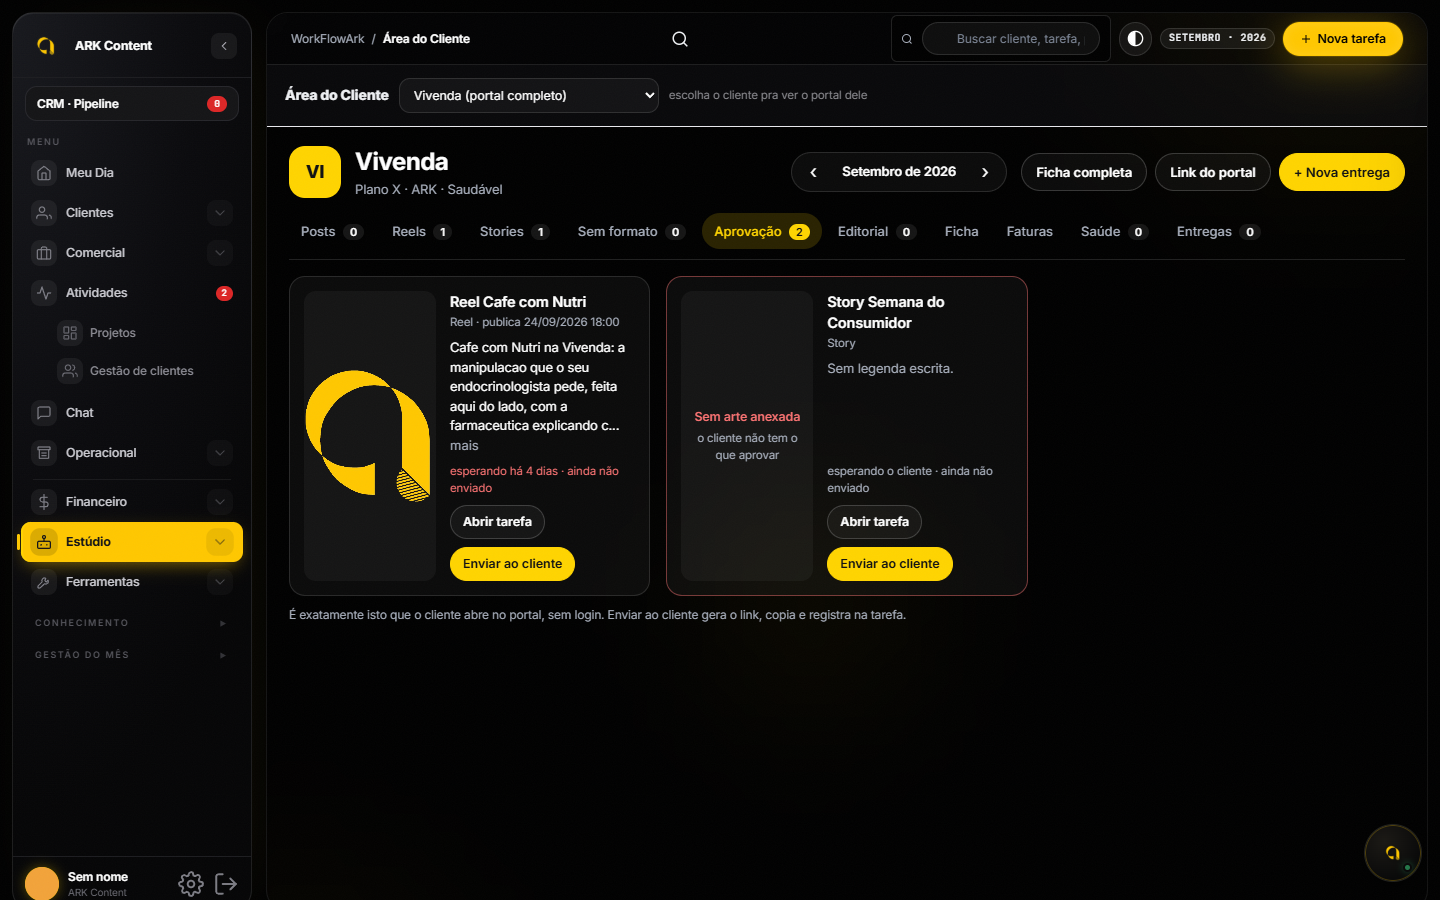
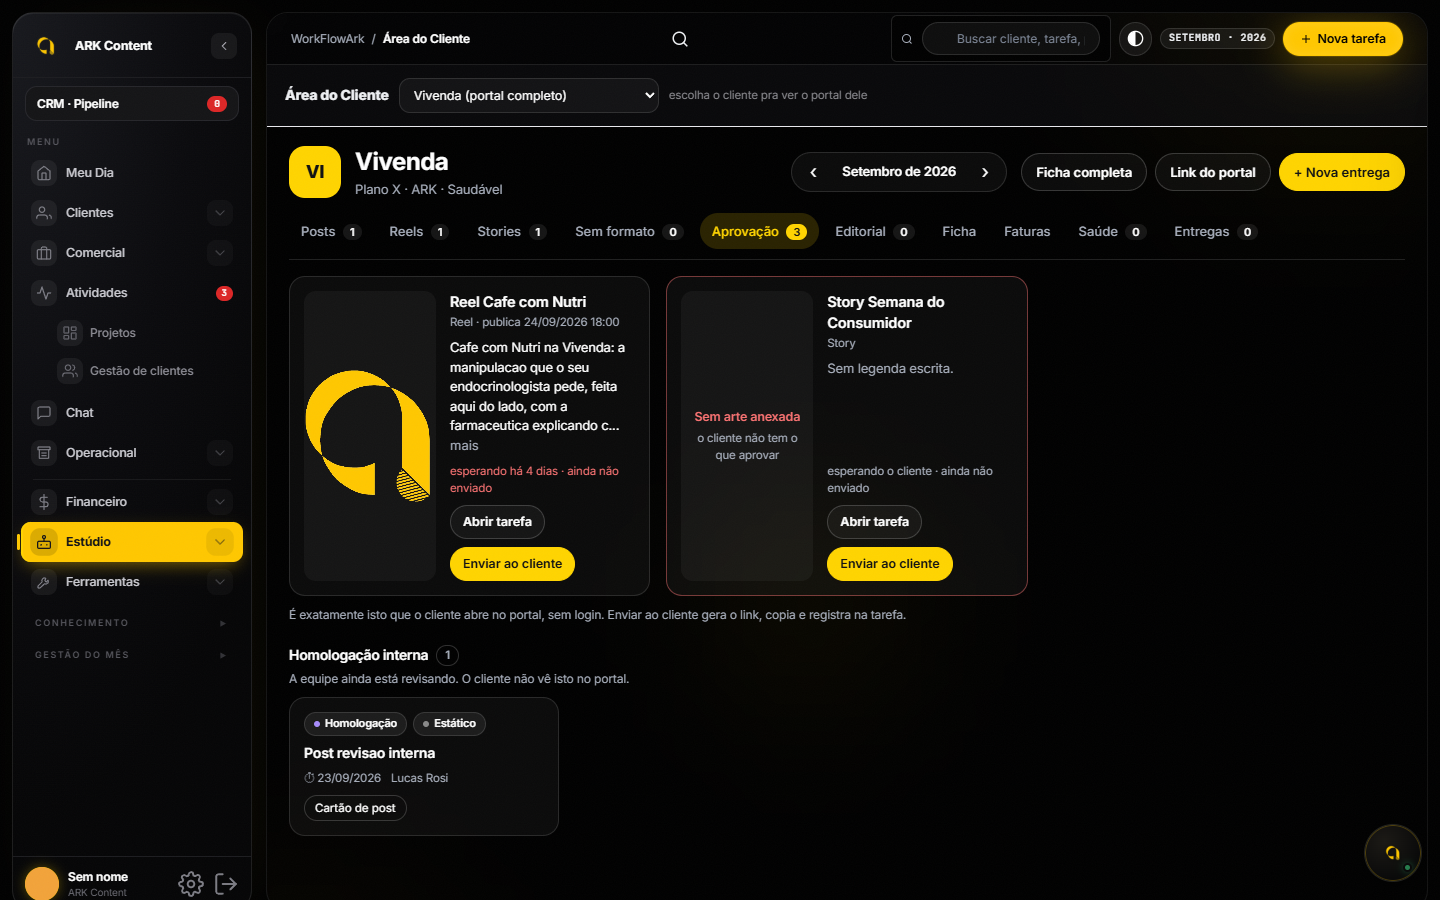
Aprovação: só o que espera o CLIENTE entra no espelho do portal; homologação interna vai em seção própria, marcador 20260922c-aprovacao-app
Revisão do próprio lote: a aba somava status aprovacao (homologação interna da equipe) com
homologcli, então a tela que diz "é isto que o cliente vê" mostrava tarefa que o cliente
não vê. Agora o cartão com arte é só homologcli e as internas ficam abaixo, com aviso.

Par do cliente vira workflowark-cliente-20260922b.{js,css} (conteúdo mudou no mesmo dia,
nome novo pra não servir arquivo velho de cache).

Prova atualizada em deploy/prova-aprovacao.py: a carteira sintética passa a ter uma tarefa
em homologação interna e a prova confere que ela fica fora dos cartões do cliente.

diff --git a/public/workflowark-cliente-20260922b.js b/public/workflowark-cliente-20260922b.js
@@ -302,7 +302,12 @@
     else if (ABA === "stories") html += grid(stories, "Nenhum story em " + mesNome(MES) + ".");
     else if (ABA === "todas") html += grid(semF, "Todas as tarefas do mês já têm formato.");
     else if (ABA === "aprov") {
-      var itens = aprDerivar(aprov);
+      /* O portal so mostra o que esta esperando o CLIENTE (homologcli). Homologacao
+         interna (aprovacao) e coisa de equipe e fica numa secao separada. */
+      var itens = aprDerivar(
+        aprov.filter(function (t) { return t.status === "homologcli"; }),
+      );
+      var internas = aprov.filter(function (t) { return t.status === "aprovacao"; });
       html += itens.length
         ? '<div class="apr-wrap">' +
           itens
@@ -344,7 +349,13 @@
             })
             .join("") +
           '</div><p class="nxc-mute" style="margin-top:10px;font-size:12px">É exatamente isto que o cliente abre no portal, sem login. Enviar ao cliente gera o link, copia e registra na tarefa.</p>'
-        : '<div class="nxc-empty">Nada em homologação para este cliente.</div>';
+        : '<div class="nxc-empty">Nada esperando o cliente agora.</div>';
+      if (internas.length)
+        html +=
+          '<h3 class="apr-sec">Homologação interna <span>' +
+          internas.length +
+          '</span></h3><p class="nxc-mute" style="font-size:12px;margin:0 0 10px">A equipe ainda está revisando. O cliente não vê isto no portal.</p>' +
+          '<div class="nxc-grid">' + internas.map(cardTarefa).join("") + '</div>';
     }
     else if (ABA === "editorial")
       html += ed.length

diff --git a/public/workflowark.html b/public/workflowark.html
@@ -1,4 +1,4 @@
-<!-- build 20260922b-aprovacao-app -->
+<!-- build 20260922c-aprovacao-app -->
 <html lang="pt-BR">
 <head>
 <meta charset="utf-8">
@@ -49,7 +49,7 @@
 <link href="https://fonts.googleapis.com/css2?family=Inter:wght@400;500;600;700;800&family=Sora:wght@400;500;600;700;800&family=JetBrains+Mono:wght@500;600&display=swap" rel="stylesheet">
 <script src="https://cdn.jsdelivr.net/npm/animejs@4/lib/anime.iife.min.js" defer></script>
 <link rel="stylesheet" href="workflowark-20260915a.css">
-<link rel="stylesheet" href="workflowark-cliente-20260922a.css">
+<link rel="stylesheet" href="workflowark-cliente-20260922b.css">
 <style>.side-foot .av{min-width:34px;width:34px;height:34px;overflow:hidden;flex:none}.side-foot .av img{width:100%;height:100%;object-fit:cover;border-radius:50%;display:block}.side.compact .side-foot .av{min-width:34px}
 /* descrição da tarefa: cresce com o texto, legível (pedido 21/09, ref. Trello) */
 #td-desc{min-height:168px;max-height:52vh;font-size:14.5px;line-height:1.65;padding:14px 16px;resize:vertical;overflow:auto;white-space:pre-wrap}
@@ -4399,6 +4399,6 @@ function wfaSetTheme(t){
 <div class="toast" id="toast"><svg viewBox="0 0 24 24" fill="none" stroke="currentColor" stroke-width="2.5" stroke-linecap="round" stroke-linejoin="round"><polyline points="20 6 9 17 4 12"/></svg><span id="toast-msg">Pronto</span></div>
 
 <script src="workflowark-app-20260921b.js"></script>
-<script src="workflowark-cliente-20260922a.js" defer></script>
+<script src="workflowark-cliente-20260922b.js" defer></script>
 </body>
 </html>

diff --git a/public/workflowark-cliente-20260922b.css b/public/workflowark-cliente-20260922b.css
@@ -84,3 +84,5 @@ body.aura-light .nxc-box input,body.aura-light .nxc-box textarea{color-scheme:li
 .apr-acoes{display:flex;gap:8px;flex-wrap:wrap}
 .apr-acoes .nxc-btn{padding:7px 12px;min-height:34px;font-size:12.5px}
 @media (max-width:700px){.apr-card{flex-direction:column}.apr-midia{width:100%;max-width:180px;max-height:260px}}
+.apr-sec{margin:22px 0 4px;font-size:14px;font-weight:600;color:var(--ink);display:flex;align-items:center;gap:8px}
+.apr-sec span{font-size:11.5px;font-weight:600;color:var(--mute);border:1px solid var(--line-2);border-radius:999px;padding:1px 8px}

diff --git a/deploy/prova-aprovacao.py b/deploy/prova-aprovacao.py
@@ -45,6 +45,8 @@ tarefas = [
      'clienteId': 'vivenda', 'formato': 'story', 'data': d(1), 'up': agora},
     {'id': 'ap3', 'title': 'Carrossel Novo Gama', 'status': 'concluido', 'resp': 'Bruno',
      'clienteId': 'vivenda', 'formato': 'carrossel', 'concluidaEm': d(-1) + 'T10:00:00.000Z', 'up': agora},
+    {'id': 'ap4', 'title': 'Post revisao interna', 'status': 'aprovacao', 'resp': 'Lucas Rosi',
+     'clienteId': 'vivenda', 'formato': 'estatico', 'data': d(1), 'up': agora},
 ]
 seed = ("localStorage.setItem('sb-fxfnonozzekxnxddxsnh-auth-token',%s);"
         "localStorage.setItem('wfa-theme','dark');"
@@ -85,6 +87,9 @@ with sync_playwright() as pw:
     for c in cards:
         print('  -', c['titulo'], '|', c['proporcao'], '| arte:', c['temArte'],
               '| falta arquivo:', c['falta'], '|', (c['espera'] or '').strip())
+    print('secao de homologacao interna:',
+          p.evaluate("() => { const h = document.querySelector('.apr-sec'); return h ? h.textContent.trim() : 'nenhuma'; }"),
+          '| cartoes internos:', p.evaluate("() => document.querySelectorAll('.nxc-grid .nxc-card').length"))
     print('legenda cortada com mais:',
           p.evaluate("() => !!document.querySelector('.apr-mais')"))
     p.screenshot(path=f'deploy/prova-aprovacao-{fase}-aba.png', full_page=False)
